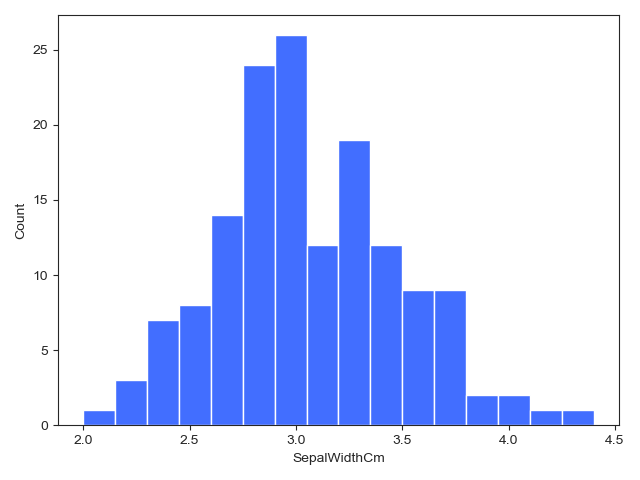
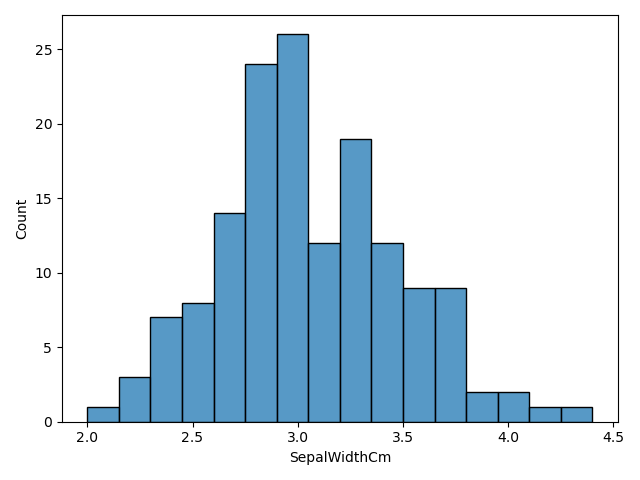
graphs

diff --git a/Analysis.py b/Analysis.py
@@ -34,20 +34,22 @@ with open("analysisOutout.txt", "wt") as f:                                     
     print("\nThe Data grouped by Species is: \n \n",df.groupby("Species").size(), file=f)    # Outputs the data grouped by Species
 
 
-sns.set_palette("bright")                                                 # set seaborn color palette
-sns.set_style("ticks", {"xtick.major.size": 8, "ytick.major.size": 8})    # Set background style
-sns.color_palette("husl", 9)                                              # Set Color Palette
-
-
 
 
 # Histogram of Variable
 
 # Simple Histogram Output
-sns.histplot(df["SepalWidthCm"], bins=16, palette=("husl"))   # Seaborn create histogram - Iris File dataframe variable - "Sepal Width" - 16 bins - Color Palette    
+sns.histplot(df["SepalWidthCm"], bins=16, palette=("hls"))   # Seaborn create histogram - Iris File dataframe variable - "Sepal Width" - 16 bins - Color Palette    
 plt.tight_layout()                                            # Crop output
 plt.savefig("Hisplot.png")                                    # Create file and save to file "Histplot"
 plt.show()                                                    # Show plot
+
+
+
+
+sns.set_palette("bright")                                                 # set seaborn color palette
+sns.set_style("ticks", {"xtick.major.size": 8, "ytick.major.size": 8})    # Set background style
+sns.color_palette("husl", 9)                                              # Set Color Palette
 
 
 # Varients of Histogram 

diff --git a/README.md b/README.md
@@ -427,10 +427,10 @@ The following are four examples how data, the Fishers Iris dataset, can be viewe
   </p>
 
 
-These graphs offer contracts between the variables across the species, and give a clearer understanding to the user. In histogram 1 and 3 we also have a KDE line which also offers a clearer respresentation of the movement of the variable across the axises. Shading and opaqueness as shown in histogram 2 provide an clear visualisation of the points where the Sepal length in this case overlap between the species. Finally in histogram 4 we can see a more solid representation of the data and a step away from the traditional historgram above. 
+These graphs offer contrasts between the variables across the species, and give a clearer understanding to the user. In histogram 1 and 3 we also have a KDE line which also offers a clearer respresentation of the movement of the variable across the axises. Shading and opaqueness as shown in histogram 2 provide an clear visualisation of the points where the Sepal length in this case overlap between the species. Finally in histogram 4 we can see a more solid representation of the data and a step away from the traditional historgram above. 
 
 
-Histogram Code
+Histrogram Code
 ``` Python 
 
 # Varients of Histogram 
@@ -459,17 +459,16 @@ plt.show()                                                                      
 ```
 
 
+### Histogram
 
-
-
-
-<br/>
 <br/>
 
 ![alt text](https://github.com/VCurry20/pands-project/blob/main/Scatterplots.png)
 
 
 "A scatter plot is a type of plot or mathematical diagram using Cartesian coordinates to display values for typically two variables for a set of data. If the points are coded, one additional variable can be displayed. " [17]
+
+The above is an image of 4 scatterplots outputted to one PGN file which compare the 4 variables across the Species and offers the viewer macro view of the varients.
 
 ``` python
 
